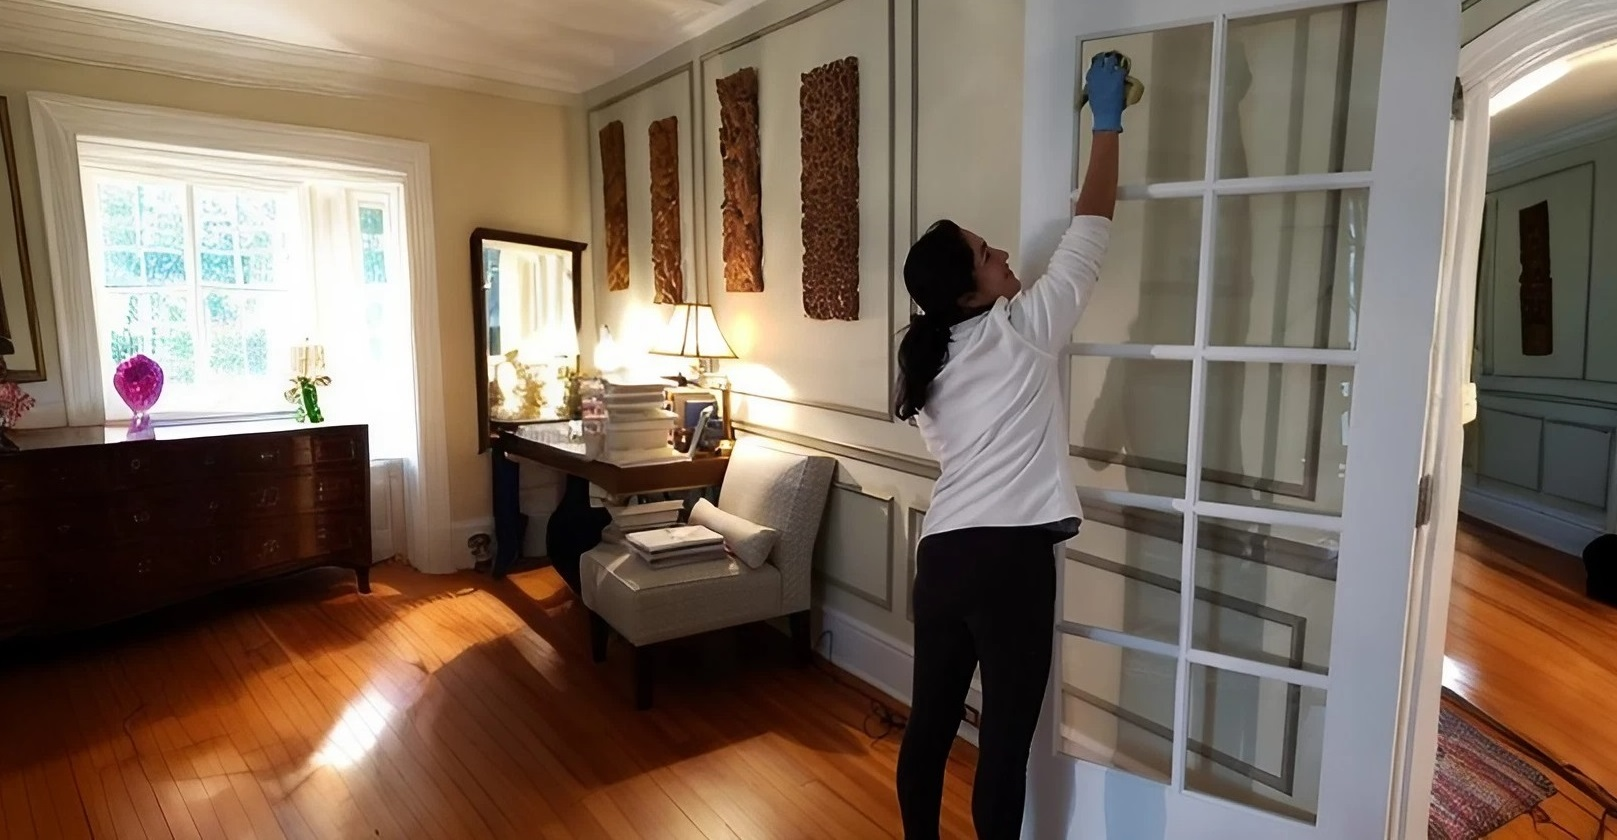
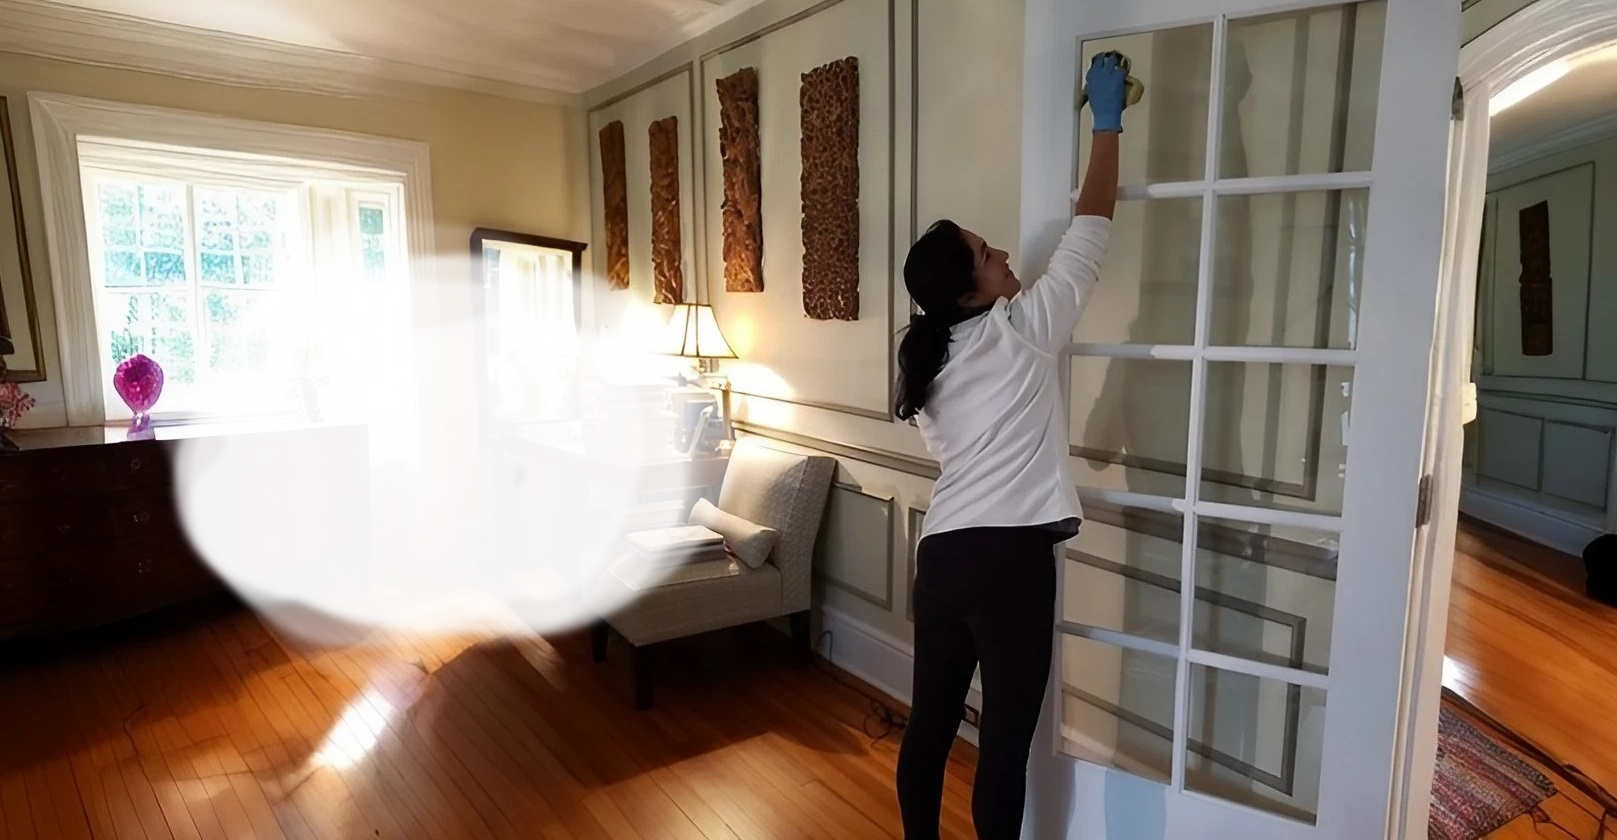
se mejoro diseño

Changed region(s): [[0.0928, 0.2476, 0.4638, 0.8048], [0.0928, 0.4333, 0.1237, 0.4643]]

diff --git a/index.html b/index.html
@@ -114,33 +114,34 @@
     </header>
     <!-- header-end -->
 
-    <!-- slider_area_start -->
+
     <div class="slider_area">
         <div class="slider_active owl-carousel">
-            <div class="single_slider  d-flex align-items-center slider_bg_2">
+            <div class="single_slider  d-flex align-items-center slider_bg_1">
                 <div class="container">
                     <div class="row">
                         <div class="col-xl-12">
-                            <canvas  id="canvas"></canvas> 
+                               <!-- para activar burbujas <canvas  id="canvas"></canvas> -->
                             <div class="slider_text ">
                                 <h3> <span>Maid Service Cleaming Service</span> <br>
                                     Residential and Commercial</h3>
                                 <p>Pleasure To Work</p>
-                                <a href="#" class="boxed-btn3">  <i class="fa fa-whatsapp" aria-hidden="true"></i> Free Stimate</a>
+                                <a  href="https://api.whatsapp.com/send?phone=15165742012" class="boxed-btn3">  <i class="fa fa-whatsapp" aria-hidden="true"></i> Free Stimate</a>
                             </div>
+                         
                         </div>
                     </div>
                 </div>
             </div>
-     
+             
             <div class="single_slider  d-flex align-items-center slider_bg_2">
                 <div class="container">
                     <div class="row">
                         <div class="col-xl-12">
                             <div class="slider_text ">
-                                <h3> <span><Title></Title></span> <br>
-                                    description</h3>
-                                <p>description <br>description</p>
+                                <h3> <span>Maid Service Cleaming Service</span> <br>
+                                    Trust us to keep your cleaning<br> in the best hands.</h3>
+                               
                                 
                                 <a href="https://api.whatsapp.com/send?phone=15165742012" class="boxed-btn3"><i class="fa fa-whatsapp" aria-hidden="true"></i> Free Stimate</a>
                             </div>
